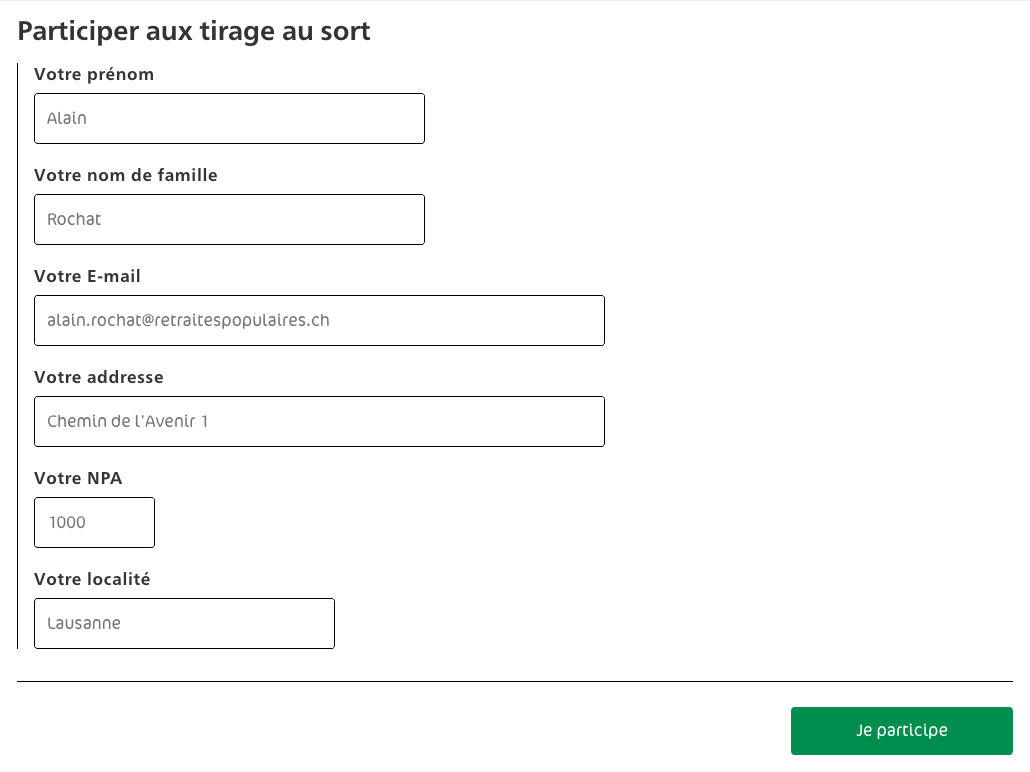
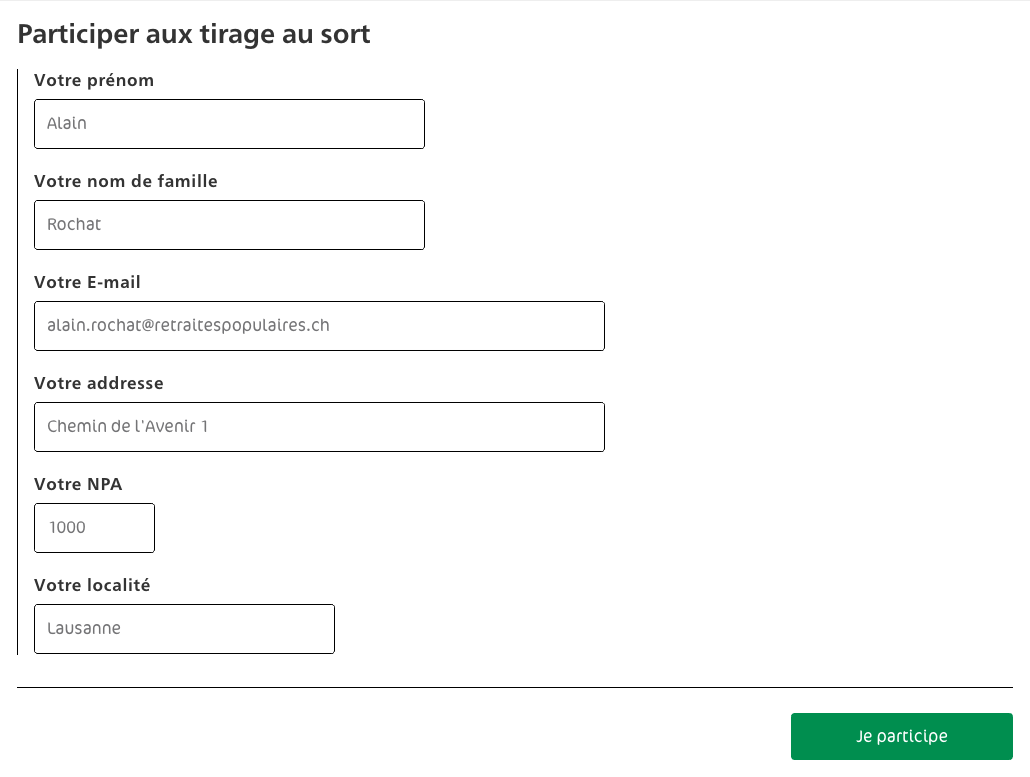
make the least changes possible in the styleguide and update gemini screens

diff --git a/assets/sass/bootstrap-variables.scss b/assets/sass/bootstrap-variables.scss
@@ -68,7 +68,7 @@ $line-height-computed:    floor(($font-size-base * $line-height-base)) !default;
 //** By default, this inherits from the `<body>`.
 $headings-font-family:    inherit !default;
 $headings-font-weight:    500 !default;
-$headings-line-height:    1.1 !default;
+$headings-line-height:    1.3 !default;
 $headings-color:          inherit !default;
 
 

diff --git a/assets/sass/atoms/_input-group.scss b/assets/sass/atoms/_input-group.scss
@@ -26,10 +26,11 @@
     position: absolute;
     top: $input-border-size;
     right: $input-border-size;
+    bottom: $input-border-size;
     width: auto;
     max-width: 100%;
-    height: calc(100% - 2px);
     z-index: 10;
+    border: none;
 
     .btn {
       height: 100%;

diff --git a/gemini/gemini-test.js b/gemini/gemini-test.js
@@ -24,6 +24,7 @@ Object.keys(molecules).map((key) => {
   return gemini.suite(key, (suite) => {
     suite.setUrl('/molecules/index.html')
       .setCaptureElements(molecules[key].name)
+      .ignoreElements(['.loader-yingyang'])
       .capture('plain');
   });
 });

diff --git a/assets/sass/atoms/_icon-text.scss b/assets/sass/atoms/_icon-text.scss
@@ -22,6 +22,7 @@
   }
 
   .icon-text-txt {
+    margin-bottom: 0;
     margin-left: 10px;
   }
 }
